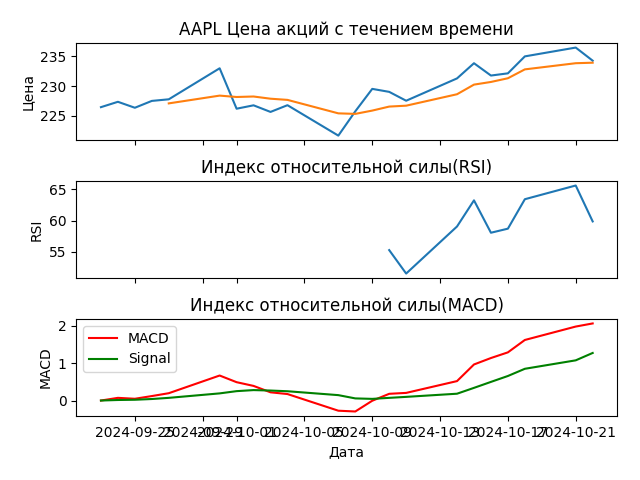
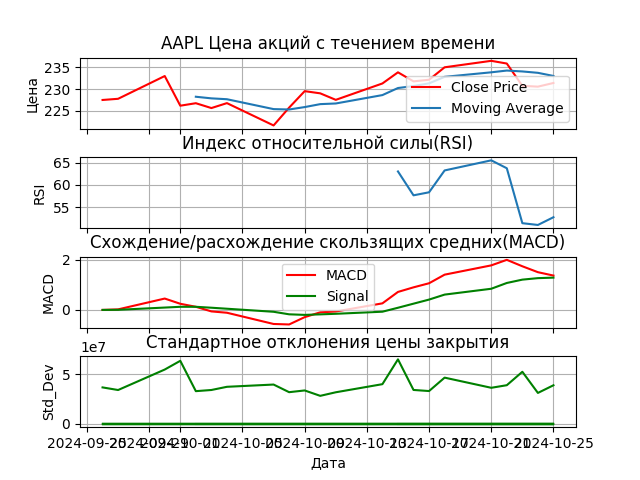
7

Changed region(s): [[0.0312, 0.0312, 0.9688, 1.0], [0.9375, 0.375, 0.9688, 0.4062], [0.0312, 0.4688, 0.0625, 0.5]]

diff --git a/data_plotting.py b/data_plotting.py
@@ -11,8 +11,8 @@ def create_and_save_plot(data, ticker, period, filename=None, style_use=None):
     plt.figure(figsize=(20, 12))
     # Добавляем слили к таблицам
     plt.style.use(style_use)
-    fig, (ax1, ax2, ax3) = plt.subplots(3, 1, sharex=True)
-    plt.subplots_adjust(wspace=0.3, hspace=0.3) # Растояние между графиками, чтобы названия залазили на графики
+    fig, (ax1, ax2, ax3, ax4) = plt.subplots(4, 1, sharex=True)
+    plt.subplots_adjust(wspace=0.4, hspace=0.4) # Растояние между графиками, чтобы названия залазили на графики
     if 'Date' not in data:
         if pd.api.types.is_datetime64_any_dtype(data.index):
             dates = data.index.to_numpy()
@@ -23,6 +23,8 @@ def create_and_save_plot(data, ticker, period, filename=None, style_use=None):
             # Построение тренда индикатора MACD и линии сигнала
             ax3.plot(data.index, dd.indicators_MACD(data)['MACD'].values, label='MACD', color='red')
             ax3.plot(data.index, dd.indicators_MACD(data)['Signal Line'].values, label='Signal', color='green')
+            # standard_deviation(data)
+            ax4.plot(data.index, dd.standard_deviation(data), label='Std_Dev', color='green')
         else:
             print("Информация о дате отсутствует или не имеет распознаваемого формата.")
             return
@@ -38,23 +40,30 @@ def create_and_save_plot(data, ticker, period, filename=None, style_use=None):
         # Построение тренда индикатора MACD и линии сигнала
         ax3.plot(data.index, dd.indicators_MACD(data)['MACD'].values, label="MACD", color='red')
         ax3.plot(data.index, dd.indicators_MACD(data)['Signal Line'].values, label='Signal', color='green')
+
+        ax4.plot(data.index, dd.standard_deviation(data), label='Std_Dev', color='blue')
     ax1.set_title(label=f"{ticker} Цена акций с течением времени", loc="center")
     ax2.set_title(label="Индекс относительной силы(RSI)", loc="center")
     ax3.set_title(label="Cхождение/расхождение скользящих средних(MACD)", loc="center")
+
+    ax4.set_title(label="Стандартное отклонения цены закрытия", loc="center")
     # Подписываем общую ось "х"
     plt.xlabel("Дата")
     # Подписываем "у" шкалы каждого из графиков
     ax1.set_ylabel('Цена')
     ax2.set_ylabel('RSI')
     ax3.set_ylabel('MACD')
+    ax4.set_ylabel('Std_Dev')
     # Добавляем легенды на каждый график
     ax1.legend()
-    ax2.legend()
+    # ax2.legend()
     ax3.legend()
+    # ax4.legend()
     # Добавляем сетку, для удобства определения значений
     ax1.grid(True)
     ax2.grid(True)
     ax3.grid(True)
+    ax4.grid(True)
     if filename is None:
         filename = f"{ticker}_{period}_stock_price_chart.png"
     else:

diff --git a/probe.py b/probe.py
@@ -1,14 +1,49 @@
-import yfinance as yf
-from datetime import datetime, timezone
+# import yfinance as yf
+# from datetime import datetime, timezone
+#
+# gold = yf.Ticker("AAPL")
+#
+# start = input("Введите дату начала периода в формате ГГГГ-ДД-ММ, например, 2022-01-03: ") or '2022-01-03'
+# end = input("Введите дату окончания периода в формате ГГГГ-ДД-ММ, например, 2022-01-10: ") or '2022-01-10'
+# interval = input(
+#     "Введите интервал, например, 1s, 1m, 1h, 1d, 1wk, 1mo (не забывайте про правила ввода yfinance): ") or '1d'
+# period = f'start={start}, end={end}, interval={interval}'
+# print(period)
+# # data = gold.history(interval='1d', start='2018-01-03', end='2022-01-10')
+# data = gold.history(period)
+# print(data)
 
-gold = yf.Ticker("AAPL")
+import pandas as pd
+import numpy as np
+import matplotlib.pyplot as plt
 
-start = input("Введите дату начала периода в формате ГГГГ-ДД-ММ, например, 2022-01-03: ") or '2022-01-03'
-end = input("Введите дату окончания периода в формате ГГГГ-ДД-ММ, например, 2022-01-10: ") or '2022-01-10'
-interval = input(
-    "Введите интервал, например, 1s, 1m, 1h, 1d, 1wk, 1mo (не забывайте про правила ввода yfinance): ") or '1d'
-period = f'start={start}, end={end}, interval={interval}'
-print(period)
-# data = gold.history(interval='1d', start='2018-01-03', end='2022-01-10')
-data = gold.history(period)
-print(data)
+# Генерируем случайные данные о цене за 30 дней
+np.random.seed(42)
+prices = np.random.normal(100, 10, size=30)
+
+# Создаем DataFrame
+df = pd.DataFrame({'Date': pd.date_range(start='2023-01-01', periods=30),
+                   'Price': prices})
+
+# Расчет стандартного отклонения с окном в 7 дней
+df['Std_Dev'] = df['Price'].rolling(window=7).std()
+print(df['Std_Dev'])
+# Построение графика
+plt.figure(figsize=(12, 6))
+
+# График цены
+plt.plot(df['Date'], df['Price'], label='Цена', color='blue')
+
+# График стандартного отклонения
+plt.fill_between(df['Date'],
+                 df['Price'] + df['Std_Dev'],
+                 df['Price'] - df['Std_Dev'],
+                 alpha=0.3, label='Стандартное отклонение', color='blue')
+
+plt.title('Цена и стандартное отклонение')
+plt.xlabel('Дата')
+plt.ylabel('Цена')
+plt.legend()
+plt.grid(True)
+plt.show()
+# print(fill_between(df['Date'], df['Price'] + df['Std_Dev'], df['Price'] - df['Std_Dev'], alpha=0.3, label='Стандартное отклонение', color='blue'))

diff --git a/data_download.py b/data_download.py
@@ -1,5 +1,8 @@
 # -*- coding: utf-8 -*-
 from ta.momentum import RSIIndicator
+import statistics
+import numpy as np
+import pandas as pd
 
 
 def fetch_stock_data(data):
@@ -50,3 +53,12 @@ def indicators_MACD(data):
     data['MACD'] = macd_line
     data['Signal Line'] = signal_line
     return data
+
+def standard_deviation(data):
+
+    df = pd.DataFrame(data)
+    print(df)
+    df['Std_Dev'] = df['Close'].rolling(window=7).std()
+    print(df['Std_Dev'])
+    return data
+

diff --git a/main.py b/main.py
@@ -60,6 +60,8 @@ def main():
     dd.indicators_RSI(data)
     dd.indicators_MACD(data)
 
+    dd.standard_deviation(data)
+
 if __name__ == "__main__":
 
     logging.basicConfig(level=logging.INFO, filemode="w", filename="main.log",
